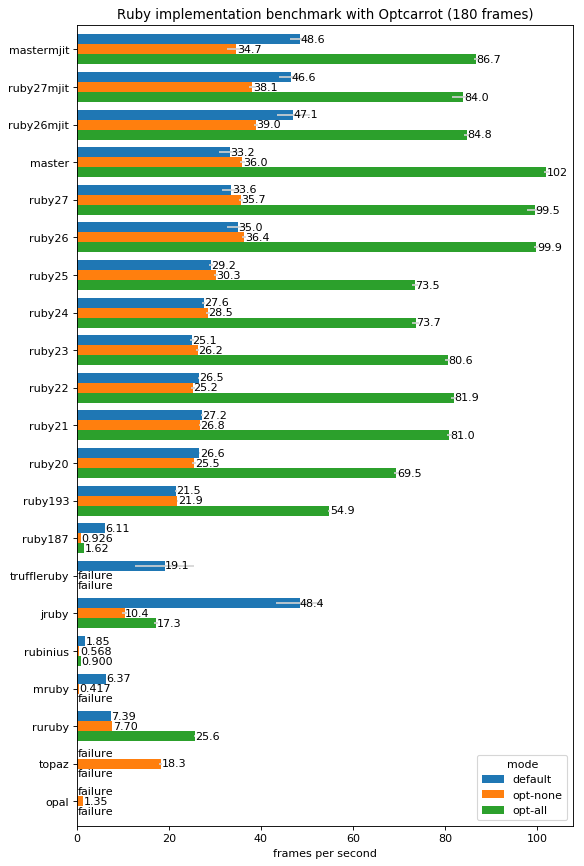
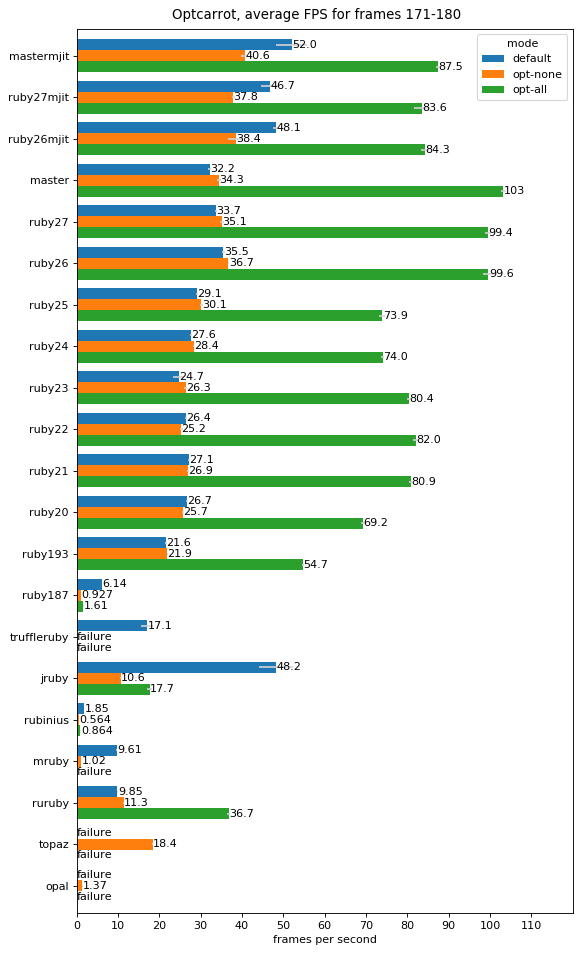
Update benchmark results and add a result for FPS at frame 3000
Fixes #26

Changed region(s): [[0.031, 0.0, 0.9931, 0.9977]]

diff --git a/doc/benchmark.md b/doc/benchmark.md
@@ -1,9 +1,7 @@
 # Ruby implementation benchmark with Optcarrot
 
 ![benchmark chart](benchmark-full.png)
-![fps history chart (up to 180 frames)](fps-history-180.png)
-![fps history chart (up to 3000 frames)](fps-history-3000.png)
-![startup-time chart](startup-time.png)
+![benchmark chart for 3000 frames](benchmark-full-3000.png)
 
 ## Experimental conditions
 
@@ -18,9 +16,8 @@
 * The error bars represent the standard deviation.
 
 ## Ruby implementations
-
-* master: `ruby 2.8.0dev (2020-05-21T04:31:36Z master ba7f4bb0af) [x86_64-linux]`
-* ruby27: `ruby 2.7.1p83 (2020-03-31 revision a0c7c23c9c) [x86_64-linux]`
+* master: `ruby 3.0.0dev (2020-12-21T04:25:03Z master 74a7877836) [x86_64-linux]`
+* ruby27: `ruby 2.7.2p137 (2020-10-01 revision 5445e04352) [x86_64-linux]`
 * ruby26: `ruby 2.6.6p146 (2020-03-31 revision 67876) [x86_64-linux]`
 * ruby25: `ruby 2.5.8p224 (2020-03-31 revision 67882) [x86_64-linux]`
 * ruby24: `ruby 2.4.10p364 (2020-03-31 revision 67879) [x86_64-linux]`
@@ -33,13 +30,13 @@
 
 * mastermjit, ruby27mjit, ruby26mjit: ruby with `--jit`
 
-* truffleruby: `truffleruby 19.3.2, like ruby 2.6.5, GraalVM CE JVM [x86_64-linux]`
-* jruby: `jruby 9.2.11.1 (2.5.7) 2020-03-25 b1f55b1a40 OpenJDK 64-Bit Server VM 25.252-b09 on 1.8.0_252-b09 +indy +jit [linux-x86_64]`
+* truffleruby: `truffleruby 20.1.0, like ruby 2.6.5, GraalVM CE JVM [x86_64-linux]`
+* jruby: `jruby 9.2.13.0 (2.5.7) 2020-08-03 9a89c94bcc OpenJDK 64-Bit Server VM 25.275-b01 on 1.8.0_275-b01 +indy +jit [linux-x86_64]`
   * `--server -Xcompile.invokedynamic=true` is specified.
 
 * rubinius: `rubinius 3.107 (2.3.1 387c4887 2018-07-15 5.0.0git-929163d) [x86_64-linux-gnu]`
 
-* mruby: `mruby 2.1.0 (2019-11-19)`
+* mruby: `mruby 3.0.0preview (2020-10-16)`
   * Configured with `MRB_WITHOUT_FLOAT` option
 
 * topaz: `topaz (ruby-2.4.0p0) (git rev 9287c22) [x86_64-linux]`
@@ -48,7 +45,7 @@
 * opal: `Opal v1.0.3`
   * Failed to run the default mode because of lack of Fiber.
 
-* ruruby: `288730f1f31cf51802ab5ddd69cc7272e32c426b`
+* ruruby: `177a21150686500b2752be7be31b99b796b2539f`
 
 See [`tools/run-benchmark.rb`](../tools/run-benchmark.rb) for the actual commands.
 
@@ -103,6 +100,8 @@ By default, Optcarrot depends upon [ffi] gem.  The headless mode has *zero* depe
 This script will build docker images for some Ruby implementations, run a benchmark on them, and create `benchmark/bm-latest.csv`.
 
     $ ruby tools/run-benchmark.rb all -m all -c 10
+    $ ruby tools/run-benchmark.rb mastermjit,master,ruby27mjit,ruby27,ruby20,truffleruby,jruby,topaz -c 10 -m all -f 3000
+    $ ruby tools/plot.rb benchmark/*-oneshot-180.csv benchmark/*-oneshot-3000.csv
 
 Note that it will take a few hours.  If you want to specify target, do:
 

diff --git a/README.md b/README.md
@@ -28,7 +28,13 @@ See [`doc/bonus.md`](doc/bonus.md) for advanced usage.
 
 ## Benchmark example
 
+Here is FPS after 3 seconds in the game's clock.
+
 ![benchmark chart](doc/benchmark-summary.png)
+
+Here is FPS after 50 seconds in the game's clock. (Only fast implementations are listed.)
+
+![benchmark chart for 3000 frames](doc/benchmark-summary-3000.png)
 
 See [`doc/benchmark.md`](doc/benchmark.md) for the measurement condition and some other charts.
 
